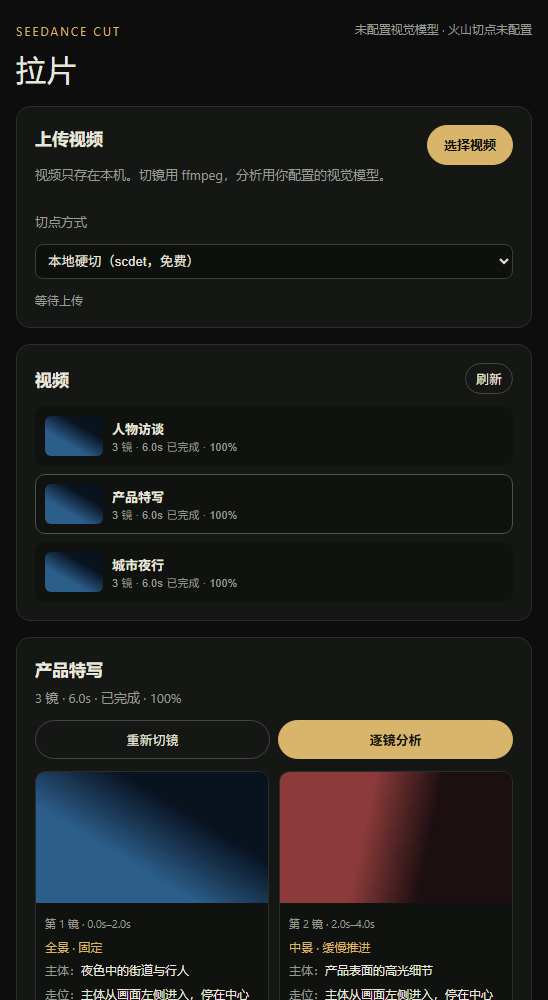
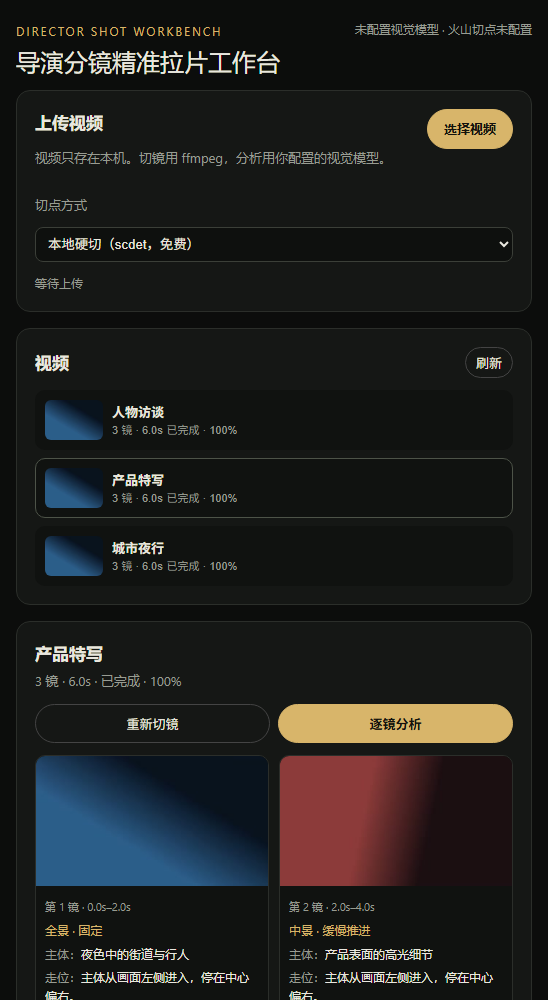
feat: rename to 导演分镜精准拉片工作台

diff --git a/web/style.css b/web/style.css
@@ -48,6 +48,7 @@ select { margin-left: 8px; background: #0e100e; color: var(--text); border: 1px 
   .layout { grid-template-columns: 1fr; min-width: 0; }
   main, .card, .row, .detail-head, .detail-actions, .item, .shots, .shot { min-width: 0; max-width: 100%; }
   header { padding: 20px 16px 14px; align-items: flex-start; flex-wrap: wrap; }
+  h1 { font-size: 24px; line-height: 1.25; max-width: 100%; }
   header > div:last-child { max-width: 46vw; min-width: 0; text-align: right; }
   .status { overflow-wrap: anywhere; }
   main { padding: 0 16px 40px; overflow-x: clip; }

diff --git a/web/index.html b/web/index.html
@@ -3,14 +3,14 @@
 <head>
   <meta charset="utf-8" />
   <meta name="viewport" content="width=device-width, initial-scale=1" />
-  <title>Seedance Cut · 拉片</title>
+  <title>导演分镜精准拉片工作台</title>
   <link rel="stylesheet" href="/style.css" />
 </head>
 <body>
   <header>
     <div>
-      <small>SEEDANCE CUT</small>
-      <h1>拉片</h1>
+      <small>DIRECTOR SHOT WORKBENCH</small>
+      <h1>导演分镜精准拉片工作台</h1>
     </div>
     <div class="status" id="model-status">读取配置…</div>
   </header>

diff --git a/app.py b/app.py
@@ -1,4 +1,4 @@
-"""Seedance Cut — a local-only shot splitter and shot analyser.
+"""导演分镜精准拉片工作台 — a local shot splitter and shot analyser.
 
 One process, one data directory, no accounts. Upload a video, cut it into
 shots with ffmpeg scene detection, then analyse the shots with any
@@ -142,10 +142,10 @@ def list_media_with_state() -> list[dict]:
 
 
 class Handler(BaseHTTPRequestHandler):
-    server_version = "SeedanceCut/" + VERSION
+    server_version = "DirectorShotWorkbench/" + VERSION
 
     def log_message(self, fmt: str, *args) -> None:
-        print("[seedance-cut]", fmt % args)
+        print("[director-shot]", fmt % args)
 
     def _json(self, status: int, value) -> None:
         body = json_bytes(value)
@@ -295,13 +295,13 @@ class Handler(BaseHTTPRequestHandler):
 def main() -> None:
     import argparse
 
-    parser = argparse.ArgumentParser(description="Seedance Cut local server")
+    parser = argparse.ArgumentParser(description="导演分镜精准拉片工作台 local server")
     parser.add_argument("--host", default=os.environ.get("SEEDANCE_HOST", "127.0.0.1"))
     parser.add_argument("--port", type=int, default=int(os.environ.get("SEEDANCE_PORT", "8765")))
     args = parser.parse_args()
     DATA_DIR.mkdir(parents=True, exist_ok=True)
     db.init_db()
-    print(f"Seedance Cut {VERSION} · http://{args.host}:{args.port}")
+    print(f"导演分镜精准拉片工作台 {VERSION} · http://{args.host}:{args.port}")
     print(f"data: {DATA_DIR}")
     ThreadingHTTPServer((args.host, args.port), Handler).serve_forever()
 

diff --git a/seedance/db.py b/seedance/db.py
@@ -1,4 +1,4 @@
-"""Local SQLite store for the standalone Seedance Cut app.
+"""Local SQLite store for the standalone Director Shot Workbench app.
 
 One row per project; the working document (analysis / shots / groups / prompts)
 lives in `doc_json` because the UI always saves the whole step. Script versions,

diff --git a/seedance/__init__.py b/seedance/__init__.py
@@ -1,3 +1,3 @@
-"""Seedance Cut · local shot splitting and shot analysis."""
+"""导演分镜精准拉片工作台 · local shot splitting and analysis."""
 
 __version__ = "0.1.0"

diff --git a/README.md b/README.md
@@ -1,4 +1,4 @@
-# Seedance Cut
+# 导演分镜精准拉片工作台
 
 ![License: Apache-2.0](https://img.shields.io/badge/license-Apache--2.0-blue.svg)
 ![Python](https://img.shields.io/badge/python-3.11%2B-informational)
@@ -12,7 +12,7 @@ database, no uploads to a third-party video service.
 > 中文：把视频上传到本机，用 ffmpeg 切镜，再用你自己的视觉模型逐镜分析。
 > 没有账号、没有云端作品库，视频默认只留在这台电脑。
 
-![Seedance Cut overview](docs/screenshots/overview.png)
+![导演分镜精准拉片工作台](docs/screenshots/overview.png)
 
 *主界面：左边是视频列表，右边是当前视频的分镜、缩略图和逐镜分析结果。截图为演示视频，不是真实项目素材。*
 
